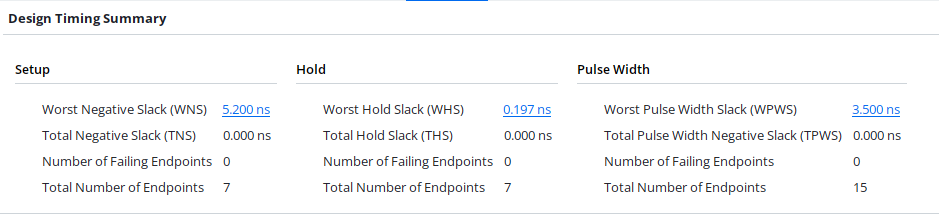
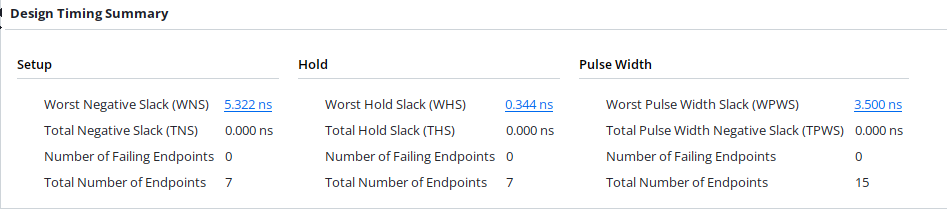
Retarget to Arty Z7-10 (xc7z010clg400-1)

diff --git a/README.md b/README.md
@@ -1,5 +1,7 @@
 # EGCP 447 Hamming (7,4) Project Conventions
 
+**Target board:** Digilent Arty Z7-10 (part `xc7z010clg400-1`)
+
 ## Bit ordering
 
 | Signal | Width | Layout (MSB to LSB) | Notes |
@@ -155,7 +157,7 @@ Cursor at about 79 ns: `rst` is high between clock edges, and `tx_cw`, `data_out
 
 ### Timing
 
-After implementation, the design meets the 125 MHz (8 ns) clock with margin: worst negative slack is 5.200 ns, worst hold slack is 0.197 ns, and there are no failing endpoints. The slowest register-to-register path takes about 2.8 ns of the 8 ns period.
+After implementation on the Arty Z7-10 (`xc7z010clg400-1`), the design meets the 125 MHz (8 ns) clock with margin: worst negative slack is 5.322 ns, worst hold slack is 0.344 ns, and there are no failing endpoints. The slowest register-to-register path takes about 2.7 ns of the 8 ns period.
 
 ![Implementation timing summary](docs/images/top_timing_summary.png)
 
